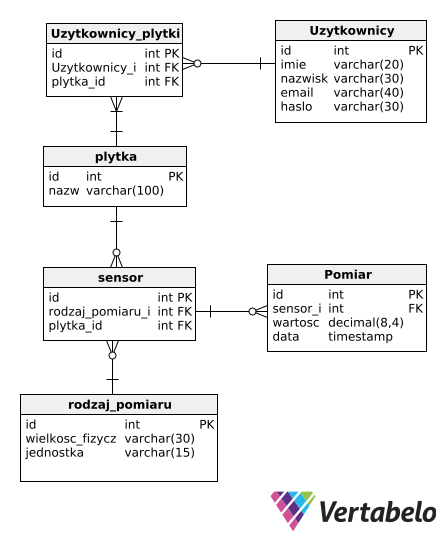
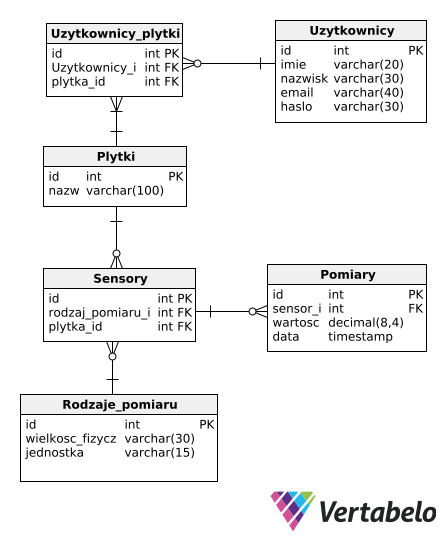
database models improvements and description

diff --git a/docs/database/REAMDE.md b/docs/database/REAMDE.md
@@ -1,0 +1,32 @@
+# Opis modeli
+
+## Model konceptualny
+
+System monitorowania parametrów środowiskowych składa się z kilku kluczowych encji, które wspólnie opisują strukturę danych oraz sposób, w jaki system funkcjonuje.
+
+Pierwszą z encji jest `płytka`, która reprezentuje urządzenie stanowiące fizyczną bazę dla instalacji systemu. Każda płytka ma przypisane unikalne id, dzięki której będzie identyfikowana w systemie. Można nadać jej rónież nazwę. Płytka umożliwia montowanie na niej sensorów, co oznacza, że wiele sensorów może być powiązanych z jedną płytą. Dodatkowo każda płyta musi być przypisana do przynajmniej jednego użytkownika, lecz system umożliwia również przypisanie jednej płyty do wielu użytkowników, co pozwala na współdzielenie urządzeń.
+
+Encja `Sensor` opisuje urządzenia wykonujące pomiary. Każdy sensor jest przypisany do jednej konkretnej płyty i mierzy określony rodzaj wielkości fizycznej, np. temperaturę, wilgotność lub ciśnienie. Relacja między sensorem a płytą ma charakter „wiele do jednego”. Sensor posiada także powiązanie z encją `Rodzaj pomiaru`.
+
+Encja `Rodzaj pomiaru` opisuje typy wielkości fizycznych mierzonych przez sensory, np. temperaturę w `°C` lub wilgotność w `%`. Dzięki tej encji każdy sensor wie, co mierzy, co ułatwia interpretację wyników.
+
+Wyniki pomiarów są zapisywane w encji `Pomiar`, reprezentującej pojedyncze zdarzenie pomiarowe. Zawiera ona wartość liczbową zarejestrowanej wielkości oraz czas wykonania. Każdy pomiar jest powiązany z konkretnym sensorem, co pozwala przypisać wyniki do odpowiedniego urządzenia.
+
+System przewiduje również encję `Użytkownik`, opisującą osoby korzystające z systemu. Użytkownik ma podstawowe dane identyfikacyjne, takie jak id, imię, nazwisko i e-mail, wykorzystywane do logowania. Każdy użytkownik ma dostęp do przypisanych mu płyt. Relacja ta umożliwia użytkownikom przeglądanie danych historycznych, monitorowanie bieżących pomiarów i otrzymywanie informacji o anomaliach, np. nagłych zmianach temperatury.
+
+
+## Model logiczny
+
+System monitorowania parametrów środowiskowych oparty jest na relacyjnej strukturze bazy danych `PostgreSQL`, która szczegółowo odwzorowuje elementy konceptualne systemu oraz ich powiązania.
+
+Głównym elementem modelu jest tabela `Płytki`, która przechowuje informacje o urządzeniach fizycznych. Każda płytka posiada unikalny identyfikator (`id`) oraz nazwę.
+
+Tabela `Uzytkownicy` przechowuje informacje o osobach korzystających z systemu. Każdy użytkownik jest jednoznacznie identyfikowany za pomocą klucza głównego (`id`) i posiada takie dane, jak imię, nazwisko, adres e-mail i hasło.
+
+Relacja między płytkami a użytkownikami została zrealizowana poprzez tabelę `Uzytkownicy_plytki`, która umożliwia przypisanie wielu użytkowników do jednej płytki oraz odwrotnie. Tabela ta zawiera klucze obce wskazujące na tabele `Uzytkownicy` i `Plytki`.
+
+Tabela `Sensory` opisuje sensory zamontowane na płytkach. Każdy sensor jest przypisany do jednej płytki (`plytka_id`) oraz jednego rodzaju pomiaru (`rodzaj_pomiaru_id`). Informacje o typach mierzonych parametrów środowiskowych przechowywane są w tabeli `Rodzaje_pomiaru`, która zawiera dane dotyczące wielkości fizycznej i jej jednostki.
+
+Pomiary rejestrowane przez sensory są zapisywane w tabeli `Pomiary`. Każdy pomiar jest powiązany z konkretnym sensorem (`sensor_id`) i zawiera informacje o wartości pomiaru (`wartosc`) oraz czasie jego wykonania (`data`). Relacja jeden-do-wielu między tabelami `Sensory` i `Pomiary` pozwala przypisać wiele wyników do jednego urządzenia.
+
+Model logiczny uwzględnia integralność danych poprzez klucze obce. Takie podejście zapewnia nie tylko spójność danych, ale także ułatwia ich analizę i zarządzanie w systemie.
